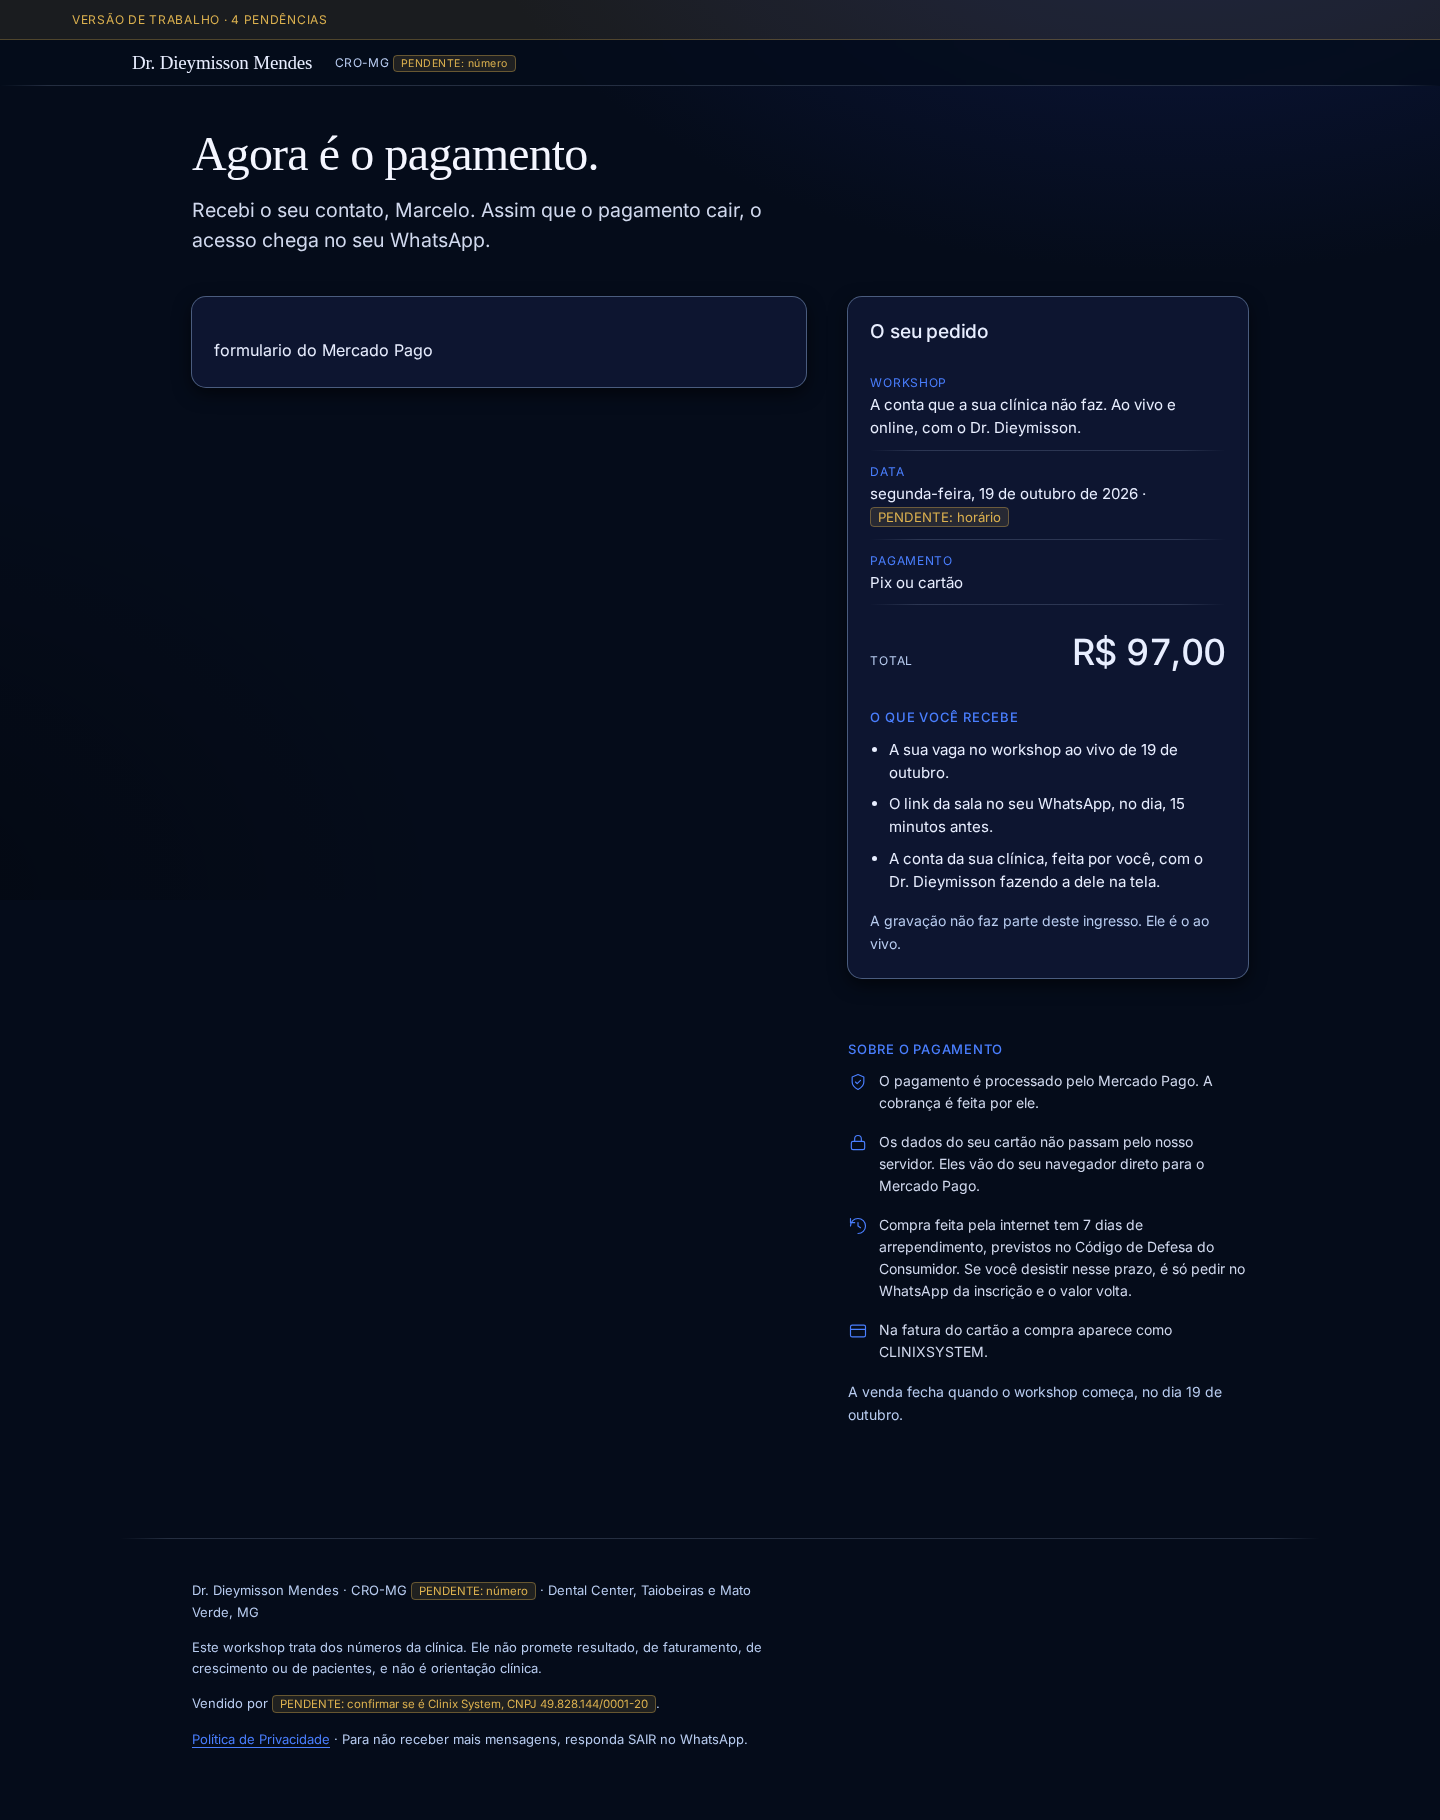
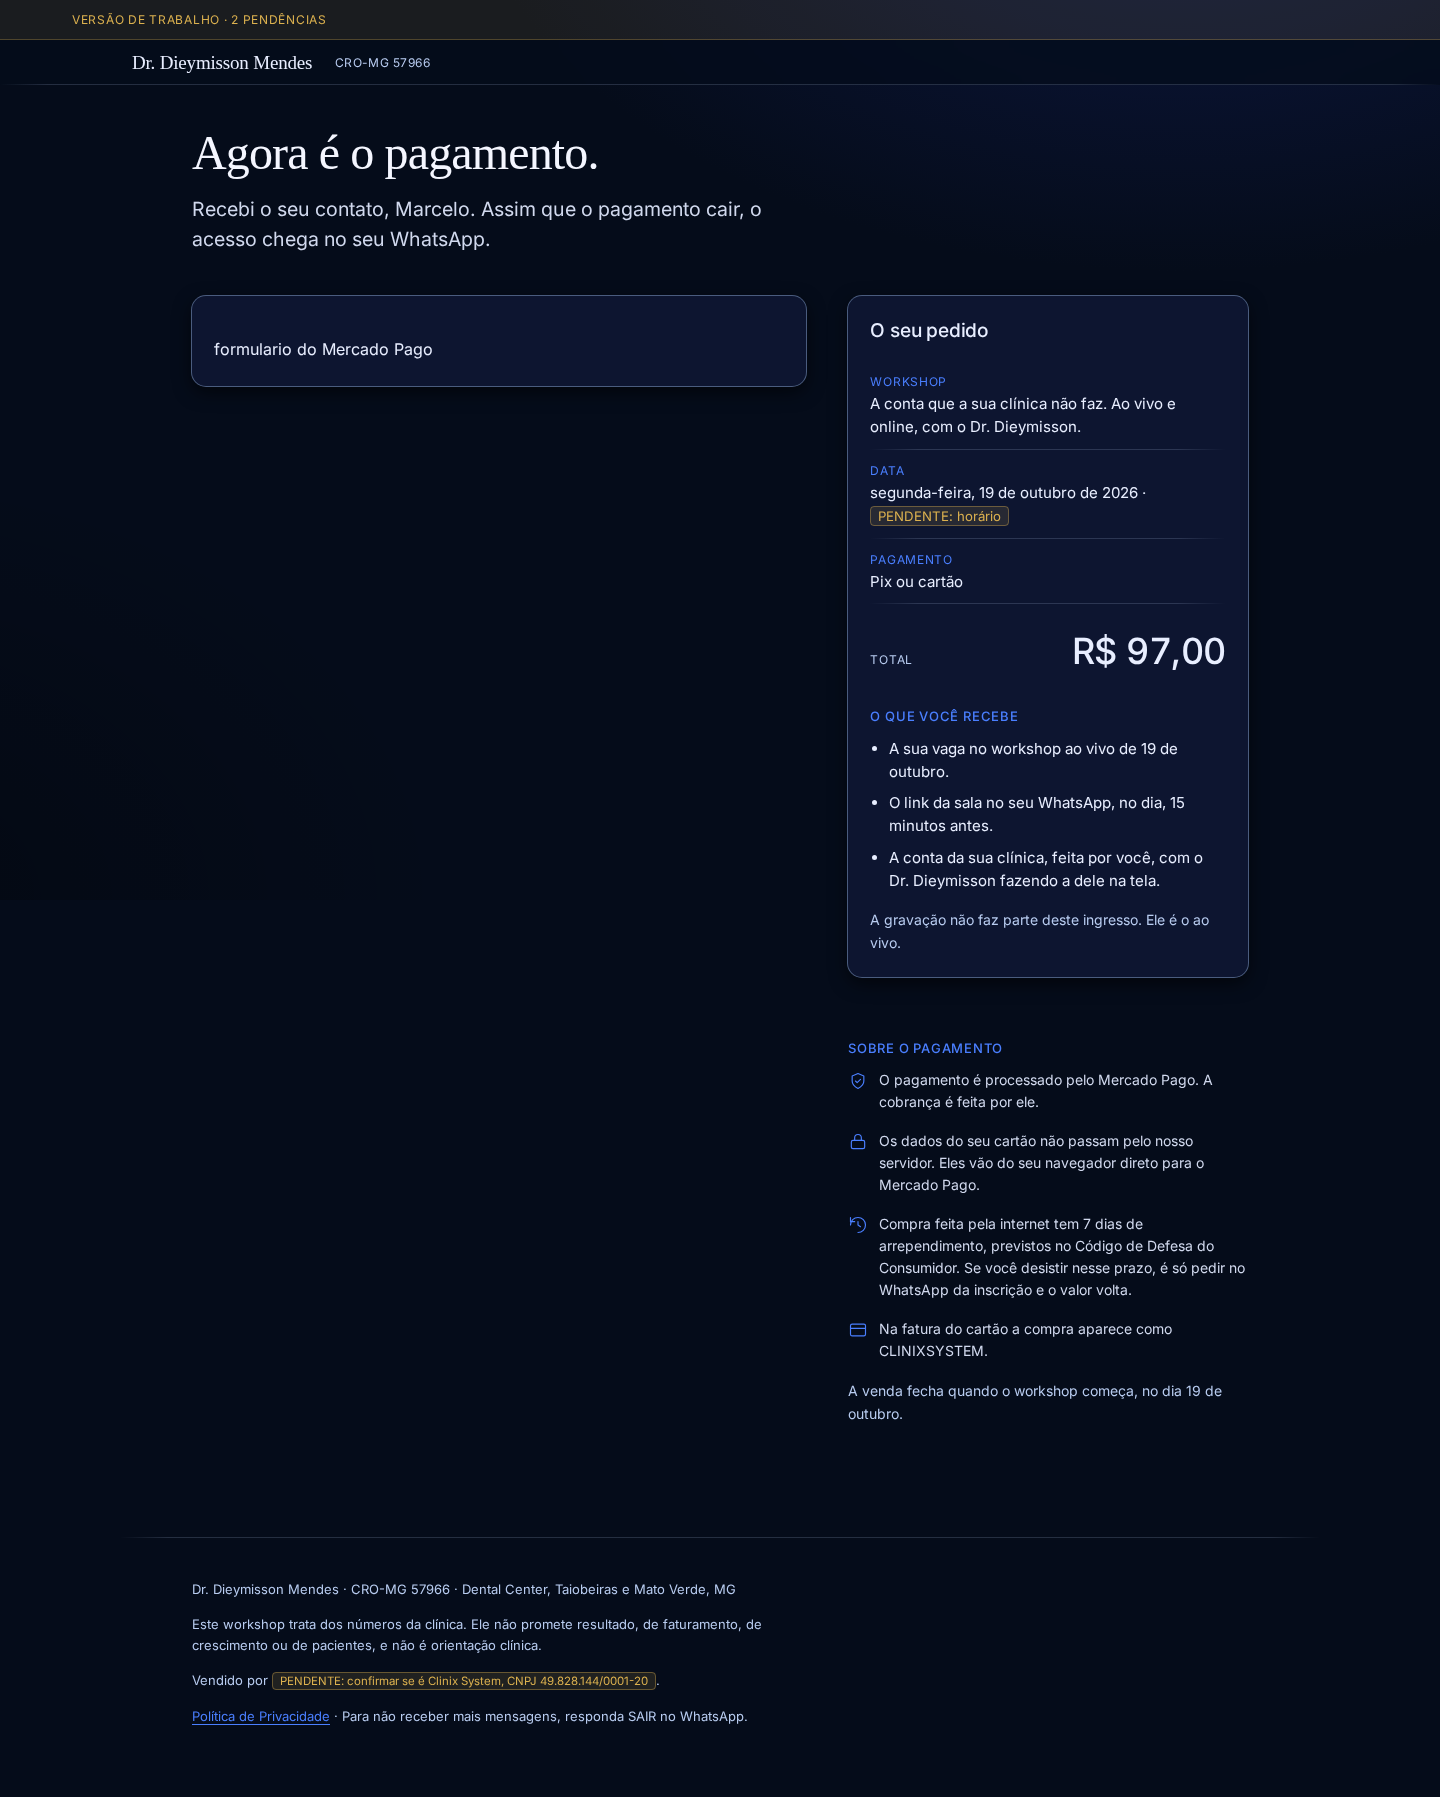
CRO-MG na pagina, e a faixa de pendencias passa a contar o DOM
O numero do CRO-MG chegou pelo Jean e entrou nos 10 marcadores das quatro
paginas, na copy da Lia e no texto da politica. A pagina cai de dez para
sete pendencias.

Dois numeros parados que mentiam, os dois consertados na fonte:
- a prova do Pix tinha a hora cravada (18:30 de 08/09) enquanto o resto do
  arquivo usa prazo relativo. Passava so antes desse horario: depois, a
  pagina dava o QR por vencido (corretamente) e o teste reprovava sozinho.
- a faixa de pendencias era escrita a mao em duas das quatro paginas. A
  politica dizia 8 com 5 no documento; a de obrigado dizia 3 com 1. Agora
  as quatro contam o proprio DOM por um assets/faixa.js so, e as duas
  copias da conta sairam do pagina.js e do checkout.js.

A varredura de travessao passou a cobrir faixa.js e obrigado.html, e pegou
o travessao do comentario do proprio arquivo novo na primeira rodada.

Provado: 97/97 na pagina de venda, 222/222 no checkout.

diff --git a/index.html b/index.html
@@ -24,17 +24,18 @@
 <link rel="stylesheet" href="nocturne/styles.css">
 <link rel="stylesheet" href="assets/estilo.css">
 <script src="assets/pagina.js" defer></script>
+<script src="assets/faixa.js" defer></script>
 </head>
 <body class="venda" data-pixel-id="">
 
 <a class="pular" href="#conteudo">Pular para o conteúdo</a>
 
-<div class="faixa" role="note">VERSÃO DE TRABALHO · <span id="n-pendencias">10</span> pendências</div>
+<div class="faixa" role="note">VERSÃO DE TRABALHO · <span id="n-pendencias">0</span> <span id="n-pendencias-palavra">pendências</span></div>
 
 <header class="cabecalho">
   <nav class="nav" aria-label="Identificação e inscrição">
     <span class="nav-brand">Dr. Dieymisson Mendes</span>
-    <span class="nav-cro">CRO-MG <mark class="pendente">PENDENTE: número</mark></span>
+    <span class="nav-cro">CRO-MG 57966</span>
     <span class="nav-links">
       <a href="#a-conta">A conta</a>
       <a href="#o-que-acontece">O dia</a>
@@ -414,7 +415,7 @@
           <blockquote class="citacao citacao--curta">Eu sou dentista, tenho clínica, e mostro a conta que a sua clínica não faz.</blockquote>
           <p class="corpo">Dr. Dieymisson Mendes. Cirurgião-dentista, implantodontia e prótese. Dono do Dental Center, em Taiobeiras e Mato Verde, MG. Autor do método O Caminho das Pedras: 50 vídeos em 8 partes, que começam pelo dinheiro que está escorrendo da clínica hoje e deixam mentalidade para o fim, de propósito.</p>
           <p class="corpo">Os números desta página são da minha clínica, com o mês declarado. Eu não uso número de outra clínica para te convencer.</p>
-          <p class="assinatura">Dr. Dieymisson Mendes · CRO-MG <mark class="pendente">PENDENTE: número</mark></p>
+          <p class="assinatura">Dr. Dieymisson Mendes · CRO-MG 57966</p>
         </div>
       </div>
     </div>
@@ -543,7 +544,7 @@
 
 <footer class="rodape">
   <div class="wrap wrap--larga">
-    <p>Dr. Dieymisson Mendes · CRO-MG <mark class="pendente">PENDENTE: número</mark> · Dental Center, Taiobeiras e Mato Verde, MG</p>
+    <p>Dr. Dieymisson Mendes · CRO-MG 57966 · Dental Center, Taiobeiras e Mato Verde, MG</p>
     <p>Este workshop trata dos números da clínica. Ele não promete resultado, de faturamento, de crescimento ou de pacientes, e não é orientação clínica.</p>
     <p>Vendido por <mark class="pendente">PENDENTE: confirmar se é Clinix System, CNPJ 49.828.144/0001-20</mark>.</p>
     <p><a href="privacidade.html">Política de Privacidade</a> · Para não receber mais mensagens, responda SAIR no WhatsApp.</p>

diff --git a/privacidade.html b/privacidade.html
@@ -15,17 +15,18 @@
 <link rel="stylesheet" href="assets/inter.css">
 <link rel="stylesheet" href="nocturne/styles.css">
 <link rel="stylesheet" href="assets/estilo.css">
+<script src="assets/faixa.js" defer></script>
 </head>
 <body>
 
 <a class="pular" href="#conteudo">Pular para o conteúdo</a>
 
-<div class="faixa" role="note">VERSÃO DE TRABALHO · 8 pendências</div>
+<div class="faixa" role="note">VERSÃO DE TRABALHO · <span id="n-pendencias">0</span> <span id="n-pendencias-palavra">pendências</span></div>
 
 <header class="cabecalho">
   <nav class="nav" aria-label="Identificação">
     <span class="nav-brand">Dr. Dieymisson Mendes</span>
-    <span class="nav-cro">CRO-MG <mark class="pendente">PENDENTE: número</mark></span>
+    <span class="nav-cro">CRO-MG 57966</span>
     <a class="btn btn-secondary cta" href="index.html">Voltar para a página do workshop</a>
   </nav>
 </header>
@@ -59,7 +60,7 @@
       <h2 id="h-s1">1. Quem é responsável pelos seus dados</h2>
       <p>Controlador: <strong>Clinix System</strong>, CNPJ 49.828.144/0001-20, Almenara, Taiobeiras/MG, CEP 39550-000.</p>
       <mark class="pendente">PENDENTE: confirmar com o Jean quem é o vendedor de registro deste workshop. Se não for a Clinix System, trocar aqui e no rodapé da página.</mark>
-      <p>O workshop é conduzido pelo Dr. Dieymisson Mendes, cirurgião-dentista, CRO-MG <mark class="pendente">PENDENTE: número</mark>.</p>
+      <p>O workshop é conduzido pelo Dr. Dieymisson Mendes, cirurgião-dentista, CRO-MG 57966.</p>
     </section>
 
     <section id="s2" aria-labelledby="h-s2">
@@ -167,7 +168,7 @@
 
 <footer class="rodape">
   <div class="wrap">
-    <p>Dr. Dieymisson Mendes · CRO-MG <mark class="pendente">PENDENTE: número</mark> · Dental Center, Taiobeiras e Mato Verde, MG</p>
+    <p>Dr. Dieymisson Mendes · CRO-MG 57966 · Dental Center, Taiobeiras e Mato Verde, MG</p>
     <p>Este workshop trata dos números da clínica. Ele não promete resultado, de faturamento, de crescimento ou de pacientes, e não é orientação clínica.</p>
     <p>Vendido por <mark class="pendente">PENDENTE: confirmar se é Clinix System, CNPJ 49.828.144/0001-20</mark>.</p>
     <p><a href="privacidade.html">Política de Privacidade</a> · Para não receber mais mensagens, responda SAIR no WhatsApp.</p>

diff --git a/checkout.html b/checkout.html
@@ -23,18 +23,19 @@
      legítimo por "risco alto": foi o que aconteceu no 1º teste real do Jean. -->
 <script src="https://www.mercadopago.com/v2/security.js" view="checkout" output="idDoAparelho" defer></script>
 <script src="assets/checkout.js" defer></script>
+<script src="assets/faixa.js" defer></script>
 </head>
 <body class="checkout">
 
 <a class="pular" href="#conteudo">Pular para o conteúdo</a>
 
-<div class="faixa" role="note">VERSÃO DE TRABALHO · <span id="n-pendencias">0</span> pendências</div>
+<div class="faixa" role="note">VERSÃO DE TRABALHO · <span id="n-pendencias">0</span> <span id="n-pendencias-palavra">pendências</span></div>
 <div class="faixa faixa--teste" id="faixa-teste" role="note" hidden>SESSÃO DE TESTE · o valor cobrado é de R$ 1</div>
 
 <header class="cabecalho">
   <nav class="nav" aria-label="Identificação">
     <span class="nav-brand">Dr. Dieymisson Mendes</span>
-    <span class="nav-cro">CRO-MG <mark class="pendente">PENDENTE: número</mark></span>
+    <span class="nav-cro">CRO-MG 57966</span>
   </nav>
 </header>
 
@@ -176,7 +177,7 @@
 
 <footer class="rodape">
   <div class="wrap">
-    <p>Dr. Dieymisson Mendes · CRO-MG <mark class="pendente">PENDENTE: número</mark> · Dental Center, Taiobeiras e Mato Verde, MG</p>
+    <p>Dr. Dieymisson Mendes · CRO-MG 57966 · Dental Center, Taiobeiras e Mato Verde, MG</p>
     <p>Este workshop trata dos números da clínica. Ele não promete resultado, de faturamento, de crescimento ou de pacientes, e não é orientação clínica.</p>
     <p>Vendido por <mark class="pendente">PENDENTE: confirmar se é Clinix System, CNPJ 49.828.144/0001-20</mark>.</p>
     <p><a href="privacidade.html">Política de Privacidade</a> · Para não receber mais mensagens, responda SAIR no WhatsApp.</p>

diff --git a/obrigado.html b/obrigado.html
@@ -17,17 +17,18 @@
      acesso é o aviso do Mercado Pago que chega no funil, nunca esta tela. Então
      aqui não existe nada que dependa de acreditar na URL: nem "aprovado", nem
      número de pagamento na tela, nem liberação de link. -->
+<script src="assets/faixa.js" defer></script>
 </head>
 <body class="checkout">
 
 <a class="pular" href="#conteudo">Pular para o conteúdo</a>
 
-<div class="faixa" role="note">VERSÃO DE TRABALHO · 3 pendências</div>
+<div class="faixa" role="note">VERSÃO DE TRABALHO · <span id="n-pendencias">0</span> <span id="n-pendencias-palavra">pendências</span></div>
 
 <header class="cabecalho">
   <nav class="nav" aria-label="Identificação">
     <span class="nav-brand">Dr. Dieymisson Mendes</span>
-    <span class="nav-cro">CRO-MG <mark class="pendente">PENDENTE: número</mark></span>
+    <span class="nav-cro">CRO-MG 57966</span>
   </nav>
 </header>
 
@@ -73,7 +74,7 @@
 
 <footer class="rodape">
   <div class="wrap">
-    <p>Dr. Dieymisson Mendes · CRO-MG <mark class="pendente">PENDENTE: número</mark> · Dental Center, Taiobeiras e Mato Verde, MG</p>
+    <p>Dr. Dieymisson Mendes · CRO-MG 57966 · Dental Center, Taiobeiras e Mato Verde, MG</p>
     <p>Este workshop trata dos números da clínica. Ele não promete resultado, de faturamento, de crescimento ou de pacientes, e não é orientação clínica.</p>
     <p><a href="privacidade.html">Política de Privacidade</a> · Para não receber mais mensagens, responda SAIR no WhatsApp.</p>
   </div>

diff --git a/assets/faixa.js b/assets/faixa.js
@@ -1,0 +1,12 @@
+/* Faixa "versão de trabalho": conta as pendências do próprio DOM.
+   🔑 Existe porque número escrito à mão envelhece calado. Em 08/09 a política dizia
+   "8 pendências" com 5 no documento e a de obrigado dizia "3" com 1. Quem conta é o DOM. */
+(function () {
+  'use strict';
+  var n = document.getElementById('n-pendencias');
+  if (!n) return;
+  var total = document.querySelectorAll('.pendente').length;
+  n.textContent = String(total);
+  var palavra = document.getElementById('n-pendencias-palavra');
+  if (palavra) palavra.textContent = total === 1 ? 'pendência' : 'pendências';
+})();

diff --git a/assets/checkout.js b/assets/checkout.js
@@ -50,10 +50,6 @@
 
   var sessao = null, token = null, controlador = null, emailPix = '', pronto = false;
 
-  /* ---------- Faixa "versão de trabalho": conta as pendências que estão no DOM ---------- */
-  var n = el('n-pendencias');
-  if (n) n.textContent = String(document.querySelectorAll('.pendente').length);
-
   /* ---------- Textos. Frase curta, "você", sem culpar quem está pagando ---------- */
   var MSG = {
     SEM_TOKEN: 'Este endereço veio sem o código do seu pagamento. Volte à página do workshop e deixe o seu contato de novo: o link do pagamento chega em seguida.',

diff --git a/assets/pagina.js b/assets/pagina.js
@@ -9,10 +9,6 @@
   var bloco = document.getElementById('form-erro');
   var ok = document.getElementById('form-ok');
 
-  /* ---------- Faixa "versão de trabalho": conta as pendências que estão no DOM ---------- */
-  var n = document.getElementById('n-pendencias');
-  if (n) n.textContent = String(document.querySelectorAll('.pendente').length);
-
   /* ---------- UTM / fbclid → campos escondidos; pagina = URL sem a query ---------- */
   if (form) {
     var q = new URLSearchParams(location.search);

diff --git a/testes/medir_checkout.py b/testes/medir_checkout.py
@@ -73,7 +73,7 @@ ok_n = ruim_n = 0
 
 SESSAO_OK = {"ok": True, "valor": 97, "primeiro_nome": "Marcelo", "email": "marcelo@example.com",
              "public_key": CHAVE_FALSA, "max_parcelas": 6, "teste": False,
-             "expira_em": "2026-09-10T12:00:00-03:00"}
+             "expira_em": daqui(48 * 3600)}   # 🔑 relativo: data fixa vence e reprova sozinha
 
 # Dublê do SDK: implementa só o que a nossa página usa, e guarda a configuração
 # recebida para o teste conferir que o tema e o valor saíram do lugar certo.
@@ -461,7 +461,9 @@ def main():
                     "metodo": "bank_transfer",
                     "pix": {"qr_code": "00020126580014BR.GOV.BCB.PIX0136teste-copia-e-cola-do-workshop5204000053039865802BR",
                             "qr_code_base64": qr, "ticket_url": "https://www.mercadopago.com.br/payments/987/ticket",
-                            "expira_em": "2026-09-08T18:30:00.000-03:00"}})
+                            # 🔑 prazo RELATIVO: cravar a hora fazia o teste passar só antes
+                            #    das 18:30 de 08/09 e reprovar sozinho depois disso.
+                            "expira_em": daqui(1800)}})
         pg.fill("#cpf", "12345678909")
         pg.click("#cpf-segue")
         pg.wait_for_timeout(700)
@@ -739,7 +741,8 @@ def main():
         marcas = pg.eval_on_selector_all(".pendente", "e => e.length")
         faixa = pg.inner_text(".faixa")
         # a faixa é caixa alta por CSS: compara sem diferenciar maiúscula
-        t("a contagem da faixa bate com as marcas do DOM", f"{marcas} pendências" in faixa.lower(), f"{marcas} × {faixa}")
+        # "1 pendência" e "3 pendências": o prefixo cobre os dois
+        t("a contagem da faixa bate com as marcas do DOM", f"{marcas} pendência" in faixa.lower(), f"{marcas} × {faixa}")
         pg.screenshot(path=os.path.join(AQUI, "capturas", "obrigado-390x844.png"), full_page=True)
         c.fecha()
         ctx.close()

diff --git a/testes/medir.py b/testes/medir.py
@@ -55,7 +55,8 @@ def sem_travessao():
     facilmente vira travessao numa frase quando alguem copia o trecho."""
     print("\n═══ Texto: travessão no meio de frase")
     for nome in ("index.html", "assets/estilo.css", "assets/pagina.js",
-                 "assets/newsreader.css", "assets/inter.css", "privacidade.html"):
+                 "assets/faixa.js", "assets/newsreader.css", "assets/inter.css",
+                 "privacidade.html", "obrigado.html"):
         bruto = open(os.path.join(RAIZ, nome), encoding="utf-8").read()
         achados = [c for c in ("—", "–", "&mdash;", "&ndash;") if c in bruto]
         t(f"{nome} sem travessão", not achados, achados or "-")

diff --git a/rascunho/copy.md b/rascunho/copy.md
@@ -118,7 +118,7 @@ Dr. Dieymisson Mendes. Cirurgião-dentista, implantodontia e prótese. Dono do D
 
 Os números desta página são da minha clínica, com o mês declarado. Eu não uso número de outra clínica para te convencer.
 
-Dr. Dieymisson Mendes · CRO-MG [PENDENTE: número]
+Dr. Dieymisson Mendes · CRO-MG 57966
 
 ## DETALHES
 
@@ -193,7 +193,7 @@ Recebi, {primeiro nome}. Agora é o pagamento: R$ 97, Pix ou cartão. Estou te l
 
 ## RODAPÉ
 
-Dr. Dieymisson Mendes · CRO-MG [PENDENTE: número] · Dental Center, Taiobeiras e Mato Verde, MG
+Dr. Dieymisson Mendes · CRO-MG 57966 · Dental Center, Taiobeiras e Mato Verde, MG
 
 Este workshop trata dos números da clínica. Ele não promete resultado, de faturamento, de crescimento ou de pacientes, e não é orientação clínica.
 
@@ -205,10 +205,11 @@ Vendido por [PENDENTE: confirmar se é Clinix System, CNPJ 49.828.144/0001-20].
 
 ## PENDÊNCIAS
 
+**Resolvida em 08/09/2026:** o número do CRO-MG (57966) chegou pelo Jean e está na página, na política e em `wcp.config.cro`.
+
 | # | O que está pendente | Onde na copy | De quem |
 |:-:|---|---|---|
 | 1 | **Aprovação D4 para expor os números da clínica** na página pública: custo fixo R$ 40.844, 988 horas, 84 faltas, R$ 394.249,81 em 490 orçamentos (agosto/2026). A decisão de 02/09 cobriu o R$ 97 e o 35% no Reel; a exposição dos números da clínica numa página aberta é outra decisão. Inclui a premissa "uma hora por falta" na conta das 84: se a duração média do horário for outra, o número muda | A CONTA (bloco inteiro) | Dr. Dieymisson |
-| 2 | **Número do CRO-MG** (as cadências do funil usam `{{cro}}`; o guardião do CRO barra mensagem sem ele) | QUEM FAZ A CONTA · RODAPÉ | Dr. Dieymisson (entra também na bio, J3 do Jean) |
 | 3 | **Horário** do workshop (a mensagem de véspera `wcp_vespera` também tem o horário em branco) | DETALHES | Dr. Dieymisson, com o Bruno |
 | 4 | **Duração** do workshop | DETALHES · FAQ "não tenho tempo" | Dr. Dieymisson, com o Bruno |
 | 5 | **A gravação:** a FAQ diz que ela não está nos R$ 97 e existe à parte só para quem comprou. Isso bate com o B7 ("a gravação está dentro do bump") e com a W6. Mas a **W13 libera a gravação por 48 horas para quem comprou e faltou**. Se a W13 ficar, a resposta da FAQ tem de dizer isso; se cair, fica como está. O preço e o nome da oferta à parte (B3, aberto desde 24/08) não entram na página até serem decididos | FAQ "e se eu não puder no dia?" | Bruno |

diff --git a/rascunho/privacidade-texto.md b/rascunho/privacidade-texto.md
@@ -11,7 +11,7 @@ Esta página e ao formulário de inscrição no workshop de 19 de outubro de 202
 ## 1. Quem é responsável pelos seus dados
 Controlador: **Clinix System**, CNPJ 49.828.144/0001-20, Almenara, Taiobeiras/MG, CEP 39550-000.
 `[PENDENTE: confirmar com o Jean quem é o vendedor de registro deste workshop. Se não for a Clinix System, trocar aqui e no rodapé da página.]`
-O workshop é conduzido pelo Dr. Dieymisson Mendes, cirurgião-dentista, CRO-MG `[PENDENTE: número]`.
+O workshop é conduzido pelo Dr. Dieymisson Mendes, cirurgião-dentista, CRO-MG 57966.
 
 ## 2. O que coletamos, exatamente
 ### 2.1 O que você digita no formulário
